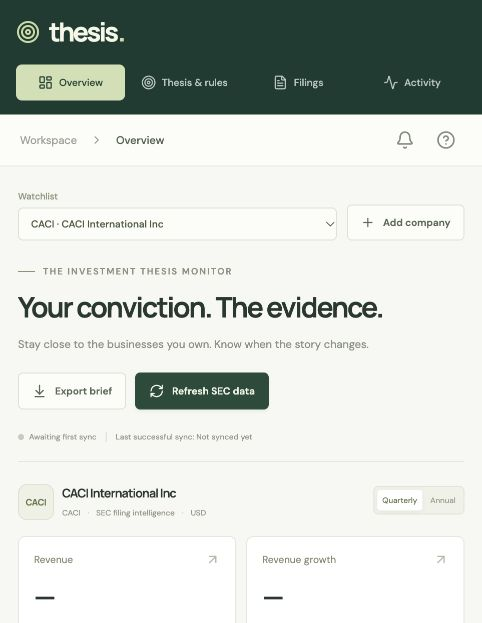
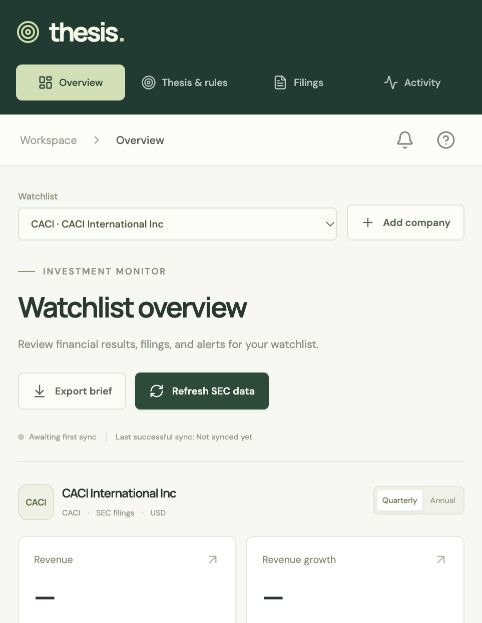
fix: replace promotional UI copy with descriptive labels

Changed region(s): [[0.0311, 0.427, 0.8091, 0.5185], [0.0311, 0.549, 0.7469, 0.5795], [0.3112, 0.8234, 0.3423, 0.8539]]

diff --git a/frontend/src/App.tsx b/frontend/src/App.tsx
@@ -139,23 +139,21 @@ export default function App() {
     link.download = `${detail.company.ticker}-thesis-brief.json`;
     link.click();
     URL.revokeObjectURL(url);
-    setMessage('Research brief exported with source evidence.');
+    setMessage('Research brief exported.');
   }
   const unread = detail?.alerts.filter((a) => !a.acknowledged_at).length ?? 0;
   const thesisPanel = detail && (
     <section className="panel thesis-panel">
       <div className="section-heading">
         <div>
-          <span className="eyebrow">01 / YOUR PERSPECTIVE</span>
-          <h2>The reason you own it.</h2>
+          <span className="eyebrow">THESIS</span>
+          <h2>Investment thesis</h2>
         </div>
         <span className="badge neutral">
           {detail.thesis ? 'Version ' + detail.thesis.version : 'No thesis saved'}
         </span>
       </div>
-      <p className="muted">
-        Write what needs to stay true. The monitor helps you notice when it changes.
-      </p>
+      <p className="muted">Describe why you own this stock and what would change your view.</p>
       <form
         onSubmit={(e) => {
           e.preventDefault();
@@ -298,11 +296,11 @@ export default function App() {
         <div className="sidebar-bottom">
           <div className="source-note">
             <ShieldCheck size={20} />
-            <strong>Built on public evidence.</strong>
+            <strong>SEC EDGAR data</strong>
             <p>
               Direct from SEC EDGAR.
               <br />
-              Every number has a source.
+              Source filings linked.
             </p>
             <a
               href="https://www.sec.gov/search-filings/edgar-application-programming-interfaces"
@@ -405,25 +403,25 @@ export default function App() {
           <div className="page-heading">
             <div>
               <div className="eyebrow">
-                <span className="small-line" /> THE INVESTMENT THESIS MONITOR
+                <span className="small-line" /> INVESTMENT MONITOR
               </div>
               <h1>
                 {view === 'Overview'
-                  ? 'Your conviction. The evidence.'
+                  ? 'Watchlist overview'
                   : view === 'Thesis & rules'
-                    ? 'Define what matters.'
+                    ? 'Thesis & rules'
                     : view === 'Filings'
-                      ? 'Go straight to the source.'
-                      : 'Follow the signal.'}
+                      ? 'SEC filings'
+                      : 'Alerts & sync history'}
               </h1>
               <p>
                 {view === 'Overview'
-                  ? 'Stay close to the businesses you own. Know when the story changes.'
+                  ? 'Review financial results, filings, and alerts for your watchlist.'
                   : view === 'Thesis & rules'
-                    ? 'Turn your investment perspective into a repeatable monitoring process.'
+                    ? 'Save your investment thesis and set financial thresholds to monitor.'
                     : view === 'Filings'
-                      ? 'Company disclosures, linked directly to their original SEC records.'
-                      : 'Review thesis alerts and the work happening behind your watchlist.'}
+                      ? 'View company filings on SEC EDGAR.'
+                      : 'Review triggered rules and data refresh jobs.'}
               </p>
             </div>
             <div className="page-actions">
@@ -514,10 +512,10 @@ export default function App() {
                     <div className="overview-lower">
                       <section className="panel thesis-preview">
                         <span className="eyebrow">YOUR INVESTMENT THESIS</span>
-                        <h2>A business. A point of view.</h2>
+                        <h2>Investment thesis</h2>
                         <p>
                           {detail.thesis?.body ||
-                            'What makes this company worth owning? Write your thesis, then decide which changes deserve your attention.'}
+                            'No thesis saved. Add your reasons for owning this stock.'}
                         </p>
                         <div className="section-heading">
                           <span className="quiet-label">
@@ -539,7 +537,7 @@ export default function App() {
                     <RuleEditor rules={detail.rules} busy={busy} save={saveRule} />
                     <div className="evaluate-bar">
                       <div>
-                        <strong>Put your rules to work.</strong>
+                        <strong>Evaluate saved rules</strong>
                         <p>Evaluate saved rules against the latest stored reporting period.</p>
                       </div>
                       <button
@@ -649,8 +647,8 @@ export default function App() {
                     <section className="panel">
                       <div className="section-heading">
                         <div>
-                          <span className="eyebrow">OPTIONAL / MODEL OBSERVATIONS</span>
-                          <h2>Read through your thesis.</h2>
+                          <span className="eyebrow">OPTIONAL ANALYSIS</span>
+                          <h2>Filing analysis</h2>
                         </div>
                         <span className="badge neutral">
                           {settings?.llm_configured ? 'Configured' : 'API key needed'}
@@ -704,10 +702,9 @@ export default function App() {
           )}
           <footer className="page-footer">
             <span>
-              <Target size={14} /> thesis. <span className="footer-divider" /> Keep your conviction
-              accountable.
+              <Target size={14} /> thesis. <span className="footer-divider" /> Investment monitor
             </span>
-            <span>Public disclosures · Personal perspective</span>
+            <span>Source: SEC EDGAR</span>
           </footer>
         </main>
       </div>
@@ -731,7 +728,7 @@ export default function App() {
                 <X size={20} />
               </button>
             </div>
-            <h2 id="settings-title">Public data. Direct access.</h2>
+            <h2 id="settings-title">SEC data settings</h2>
             <p>
               SEC EDGAR provides the filings and financial facts. Automated requests need a contact
               identity.

diff --git a/frontend/src/App.test.tsx b/frontend/src/App.test.tsx
@@ -43,10 +43,8 @@ function backend() {
 test('empty SEC data shows unavailable values and setup action', async () => {
   backend();
   render(<App />);
-  expect(
-    await screen.findByRole('heading', { name: 'Your conviction. The evidence.' }),
-  ).toBeInTheDocument();
-  expect(await screen.findByText('Connect to the source.')).toBeInTheDocument();
+  expect(await screen.findByRole('heading', { name: 'Watchlist overview' })).toBeInTheDocument();
+  expect(await screen.findByText('No SEC data yet')).toBeInTheDocument();
   expect(screen.queryByText('$8.63B')).not.toBeInTheDocument();
   fireEvent.click(screen.getByRole('button', { name: /Data settings/i }));
   expect(screen.getByText(/SEC_USER_AGENT=/)).toBeInTheDocument();
@@ -54,7 +52,7 @@ test('empty SEC data shows unavailable values and setup action', async () => {
 test('thesis editor submits the written thesis', async () => {
   backend();
   render(<App />);
-  await screen.findByText('Connect to the source.');
+  await screen.findByText('No SEC data yet');
   fireEvent.click(screen.getByRole('button', { name: 'Thesis & rules' }));
   const input = screen.getByLabelText('Your investment thesis');
   fireEvent.change(input, { target: { value: 'Cash generation supports the thesis.' } });
@@ -82,7 +80,7 @@ test('failed rule save keeps the editable form open', async () => {
     ),
   );
   render(<App />);
-  await screen.findByText('Connect to the source.');
+  await screen.findByText('No SEC data yet');
   fireEvent.click(screen.getByRole('button', { name: 'Thesis & rules' }));
   fireEvent.click(screen.getByRole('button', { name: 'Add rule' }));
   fireEvent.click(screen.getByRole('button', { name: 'Save rule' }));
@@ -98,7 +96,7 @@ test('idle dashboard discovers new alerts on its background refresh', async () =
     await act(async () => {
       await vi.advanceTimersByTimeAsync(0);
     });
-    expect(screen.getByText('Connect to the source.')).toBeInTheDocument();
+    expect(screen.getByText('No SEC data yet')).toBeInTheDocument();
     const updated = {
       ...detail,
       alerts: [

diff --git a/frontend/src/components/CompanyDetail.tsx b/frontend/src/components/CompanyDetail.tsx
@@ -73,7 +73,7 @@ export default function CompanyDetail({
               <span className="badge neutral">US EQUITY</span>
             </div>
             <p>
-              {detail.company.ticker} <span>·</span> SEC filing intelligence <span>·</span> USD
+              {detail.company.ticker} <span>·</span> SEC filings <span>·</span> USD
             </p>
           </div>
         </div>
@@ -174,10 +174,10 @@ export default function CompanyDetail({
             </i>
           </div>
           <div>
-            <span className="eyebrow">REAL FILINGS. YOUR THESIS.</span>
-            <h2>Connect to the source.</h2>
+            <span className="eyebrow">SEC DATA</span>
+            <h2>No SEC data yet</h2>
             <p>
-              Your watchlist is ready.{' '}
+              {' '}
               {secConfigured
                 ? 'Refresh SEC data to bring in financial history and the latest filings.'
                 : 'Add your SEC contact identity to start tracking financial changes from public company filings.'}
@@ -191,8 +191,8 @@ export default function CompanyDetail({
         <section className="panel">
           <div className="section-heading">
             <div>
-              <span className="eyebrow">FINANCIAL TRAJECTORY</span>
-              <h2>Revenue, over time.</h2>
+              <span className="eyebrow">REVENUE</span>
+              <h2>Revenue history</h2>
             </div>
             <span className="badge neutral">
               {kind === 'quarter' ? 'Quarterly' : 'Annual'} · USD

diff --git a/frontend/src/components/AlertFeed.tsx b/frontend/src/components/AlertFeed.tsx
@@ -15,9 +15,9 @@ export default function AlertFeed({
       <div className="section-heading">
         <div>
           <span className="eyebrow">
-            SIGNALS / {alerts.filter((a) => !a.acknowledged_at).length} UNREAD
+            ALERTS / {alerts.filter((a) => !a.acknowledged_at).length} UNREAD
           </span>
-          <h2>What needs your attention.</h2>
+          <h2>Alerts</h2>
         </div>
         <Bell size={20} />
       </div>
@@ -33,9 +33,7 @@ export default function AlertFeed({
         alerts.map((a) => (
           <article className={'alert-card ' + (a.acknowledged_at ? 'read' : '')} key={a.id}>
             <div className="section-heading">
-              <span className="badge amber">
-                {a.acknowledged_at ? 'Reviewed' : 'Review signal'}
-              </span>
+              <span className="badge amber">{a.acknowledged_at ? 'Reviewed' : 'New alert'}</span>
               <time>{date(a.created_at)}</time>
             </div>
             <h3>{a.evidence.rule_name || a.title}</h3>
@@ -49,7 +47,7 @@ export default function AlertFeed({
               Period ended {date(a.evidence.end)} · Rule v{a.evidence.rule_version}
             </p>
             <details>
-              <summary>Inspect evidence</summary>
+              <summary>View calculation and sources</summary>
               <pre>{JSON.stringify(a.evidence, null, 2)}</pre>
             </details>
             <div className="alert-actions">

diff --git a/frontend/src/components/RuleEditor.tsx b/frontend/src/components/RuleEditor.tsx
@@ -47,15 +47,15 @@ export default function RuleEditor({
     <section className="panel">
       <div className="section-heading">
         <div>
-          <span className="eyebrow">02 / MONITORING</span>
-          <h2>Make your thesis measurable.</h2>
+          <span className="eyebrow">RULES</span>
+          <h2>Monitoring rules</h2>
         </div>
         <button className="button secondary" onClick={() => open()}>
           <Plus size={15} />
           Add rule
         </button>
       </div>
-      <p className="muted">Thresholds are your assumptions. Every change creates a new version.</p>
+      <p className="muted">Choose a metric, reporting period, and threshold for each rule.</p>
       {rules.length === 0 && editing === undefined && (
         <div className="inline-empty">
           <p>No monitoring rules yet.</p>

diff --git a/frontend/src/components/JobStatus.tsx b/frontend/src/components/JobStatus.tsx
@@ -6,8 +6,8 @@ export default function JobStatus({ jobs }: { jobs: Job[] }) {
     <section className="panel">
       <div className="section-heading">
         <div>
-          <span className="eyebrow">PIPELINE HEALTH</span>
-          <h2>Every sync, accounted for.</h2>
+          <span className="eyebrow">DATA REFRESHES</span>
+          <h2>Sync history</h2>
         </div>
         <Clock3 size={21} />
       </div>
